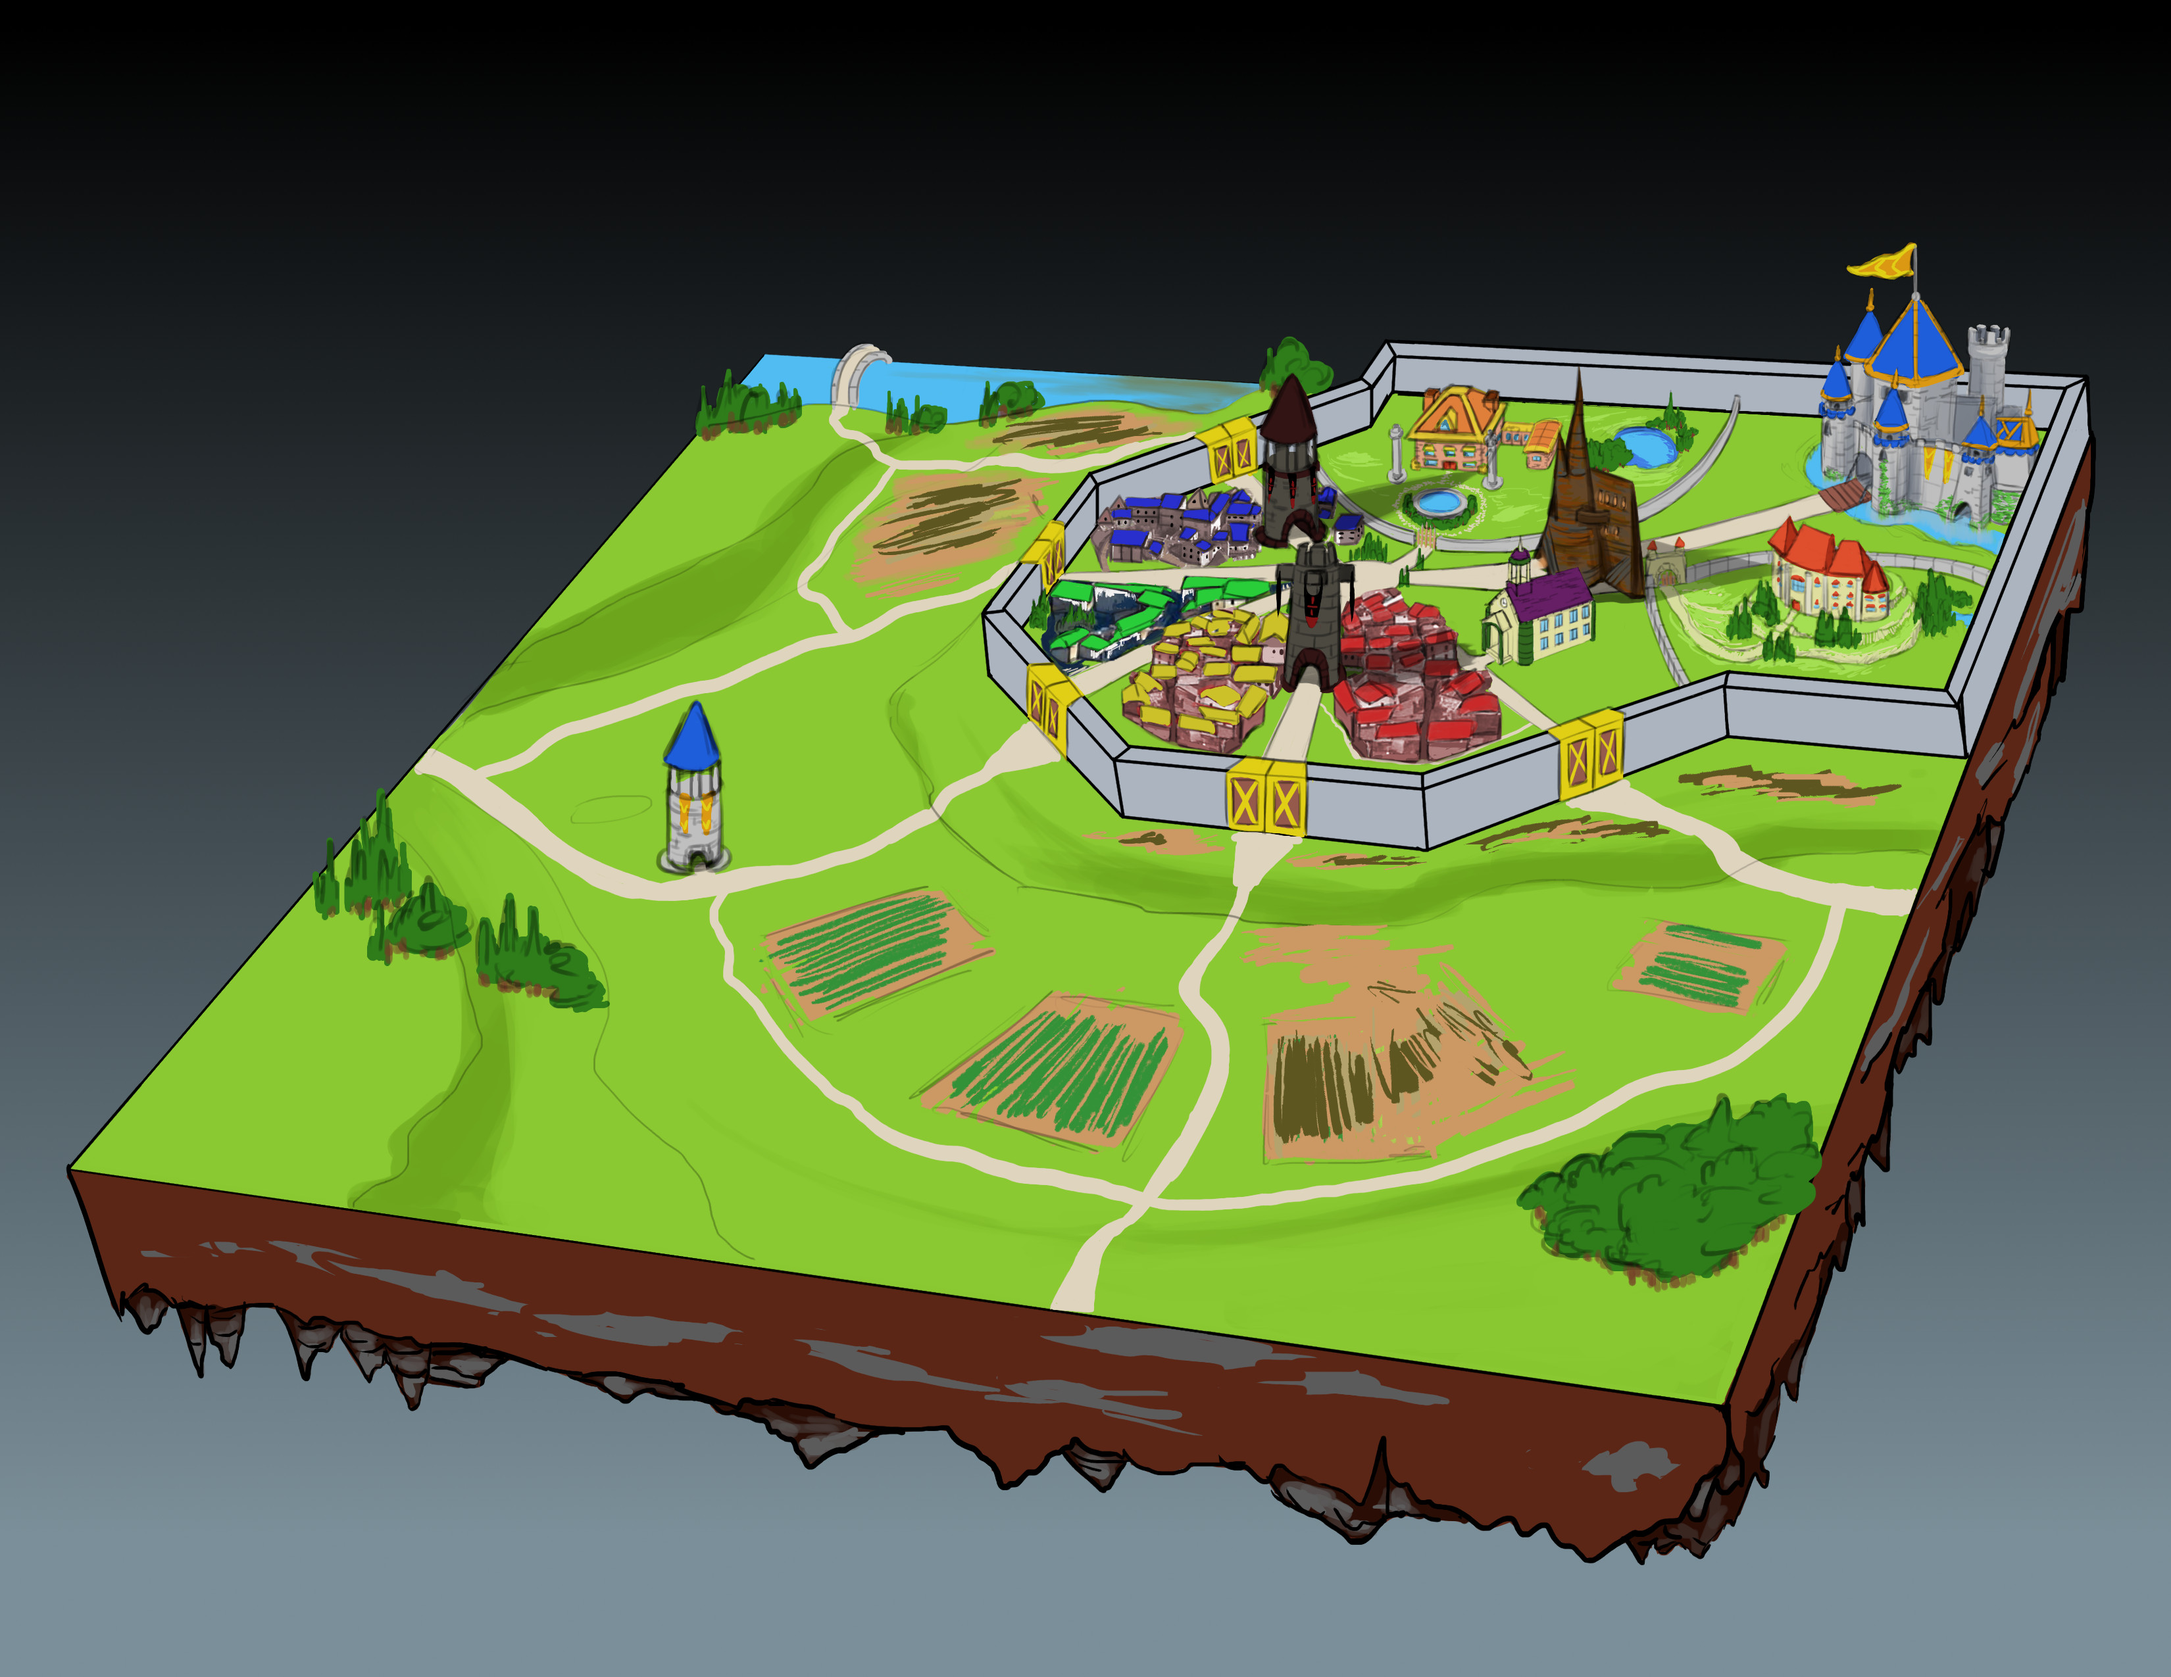
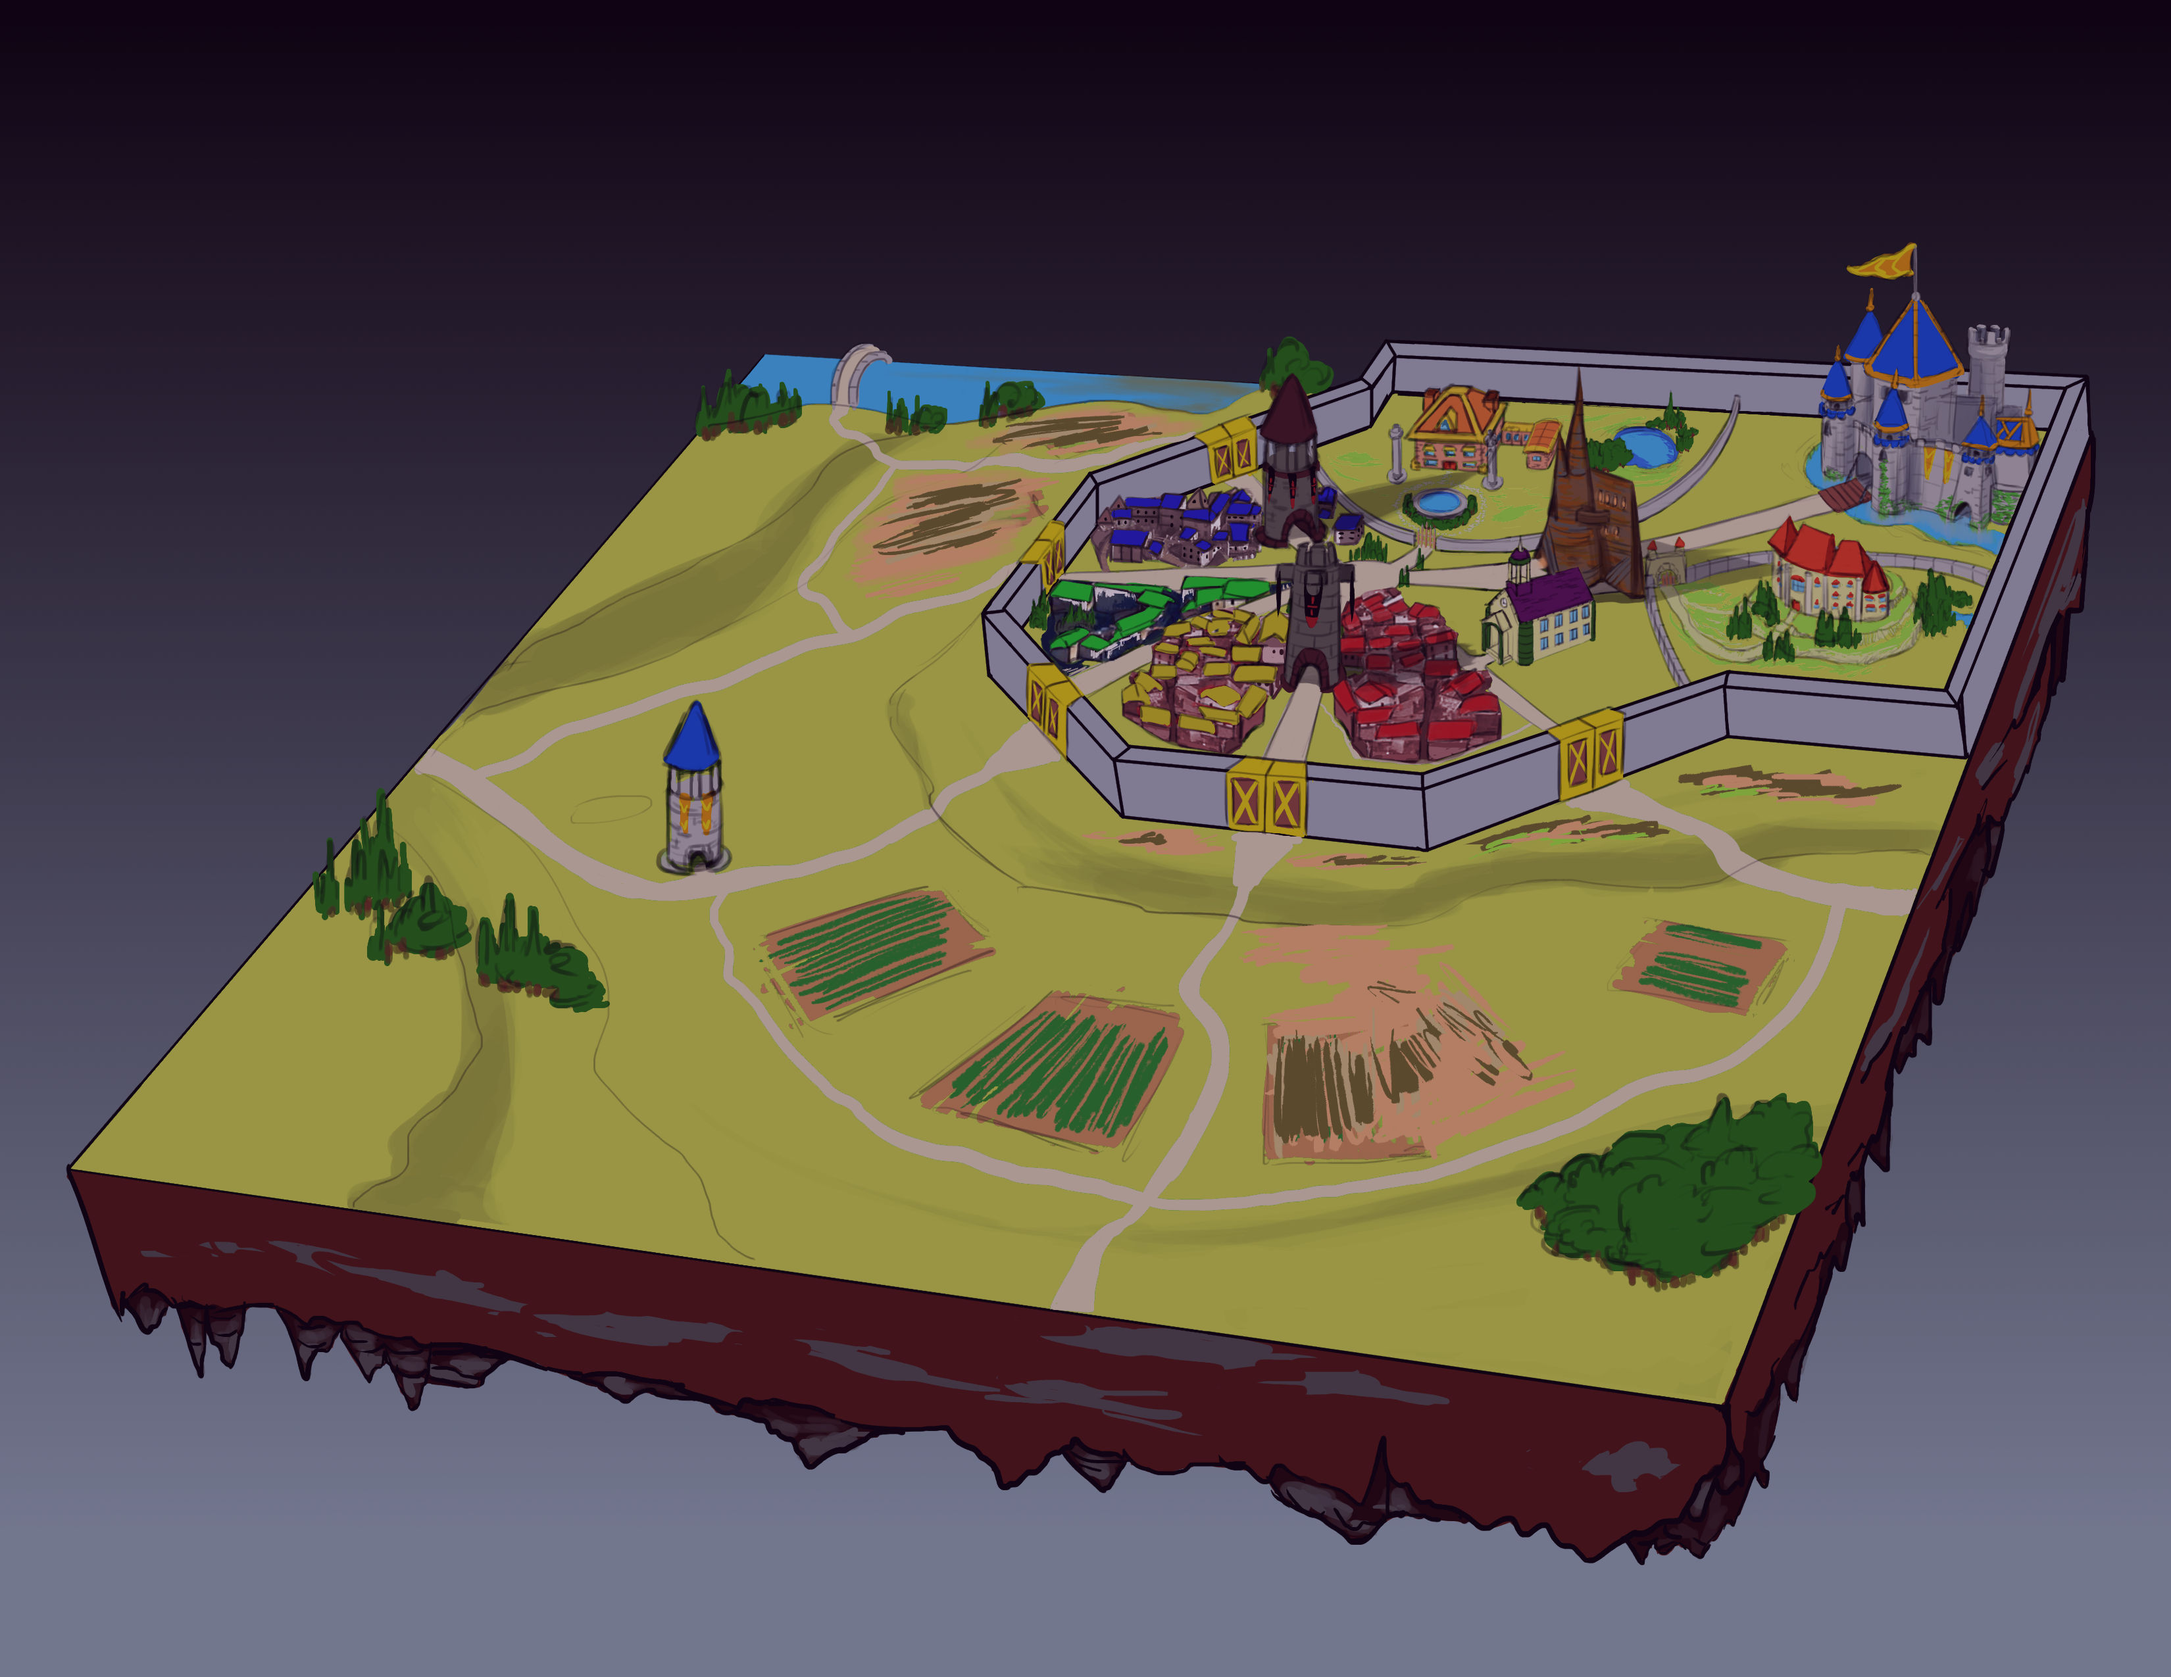
Bug fix and new map
Fixed a bug with the spirit orb rewards and changed chapter 2 map

diff --git a/Gates of Mansole/Assets/Scripts/Controllers/WorldController.cs b/Gates of Mansole/Assets/Scripts/Controllers/WorldController.cs
@@ -67,7 +67,7 @@ public class WorldController : MonoBehaviour {
 
 	private bool isFirstWin;
 	
-	private float OrbCurAmount;
+	private int OrbCurAmount;
 	private float ShardCurAmount;
 	private float ConvertStepIntervalTime;
 	private float convertTime;
@@ -923,6 +923,7 @@ public class WorldController : MonoBehaviour {
 					ShardCurAmount = 0;
 
 					if ((isFirstWin == false) || (currentLevel.GetComponent<WaveList>().firstTimeBonus <= 0)) {
+						Player.AddOrbs(OrbCurAmount);
 						cvState = _ConvertState.Done;
 					}
 				}
@@ -934,6 +935,7 @@ public class WorldController : MonoBehaviour {
 				}
 
 				if (currentLevel.GetComponent<WaveList>().firstTimeBonus <= 0) {
+					Player.AddOrbs(OrbCurAmount);
 					cvState = _ConvertState.Done;
 				}
 			}

diff --git a/Gates of Mansole/Assets/Scripts/Entity/Player.cs b/Gates of Mansole/Assets/Scripts/Entity/Player.cs
@@ -164,7 +164,7 @@ public class Player : MonoBehaviour {
     }
 
 	static public void completeLevel() {
-		convertShards ();
+		//convertShards ();
 
 		if (currentChapter >= levelFileNames.Count) {
 			return;
